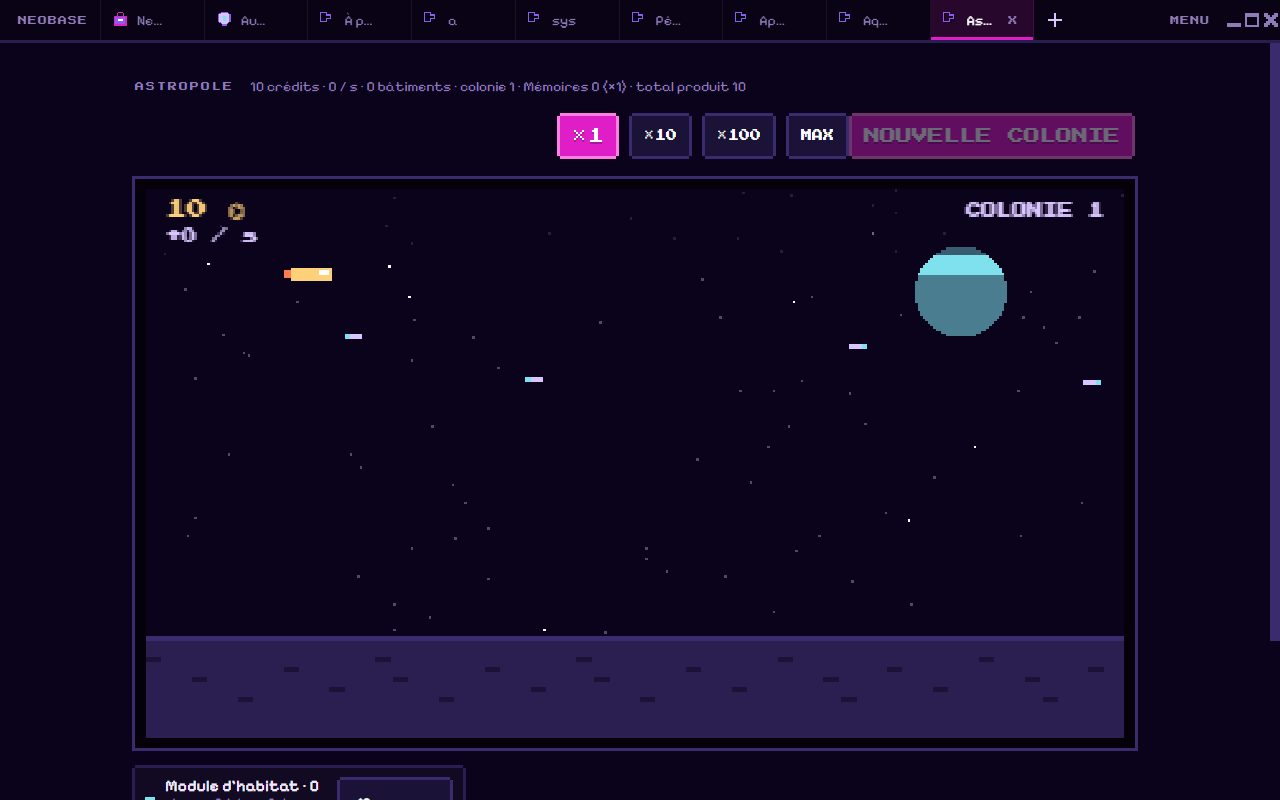
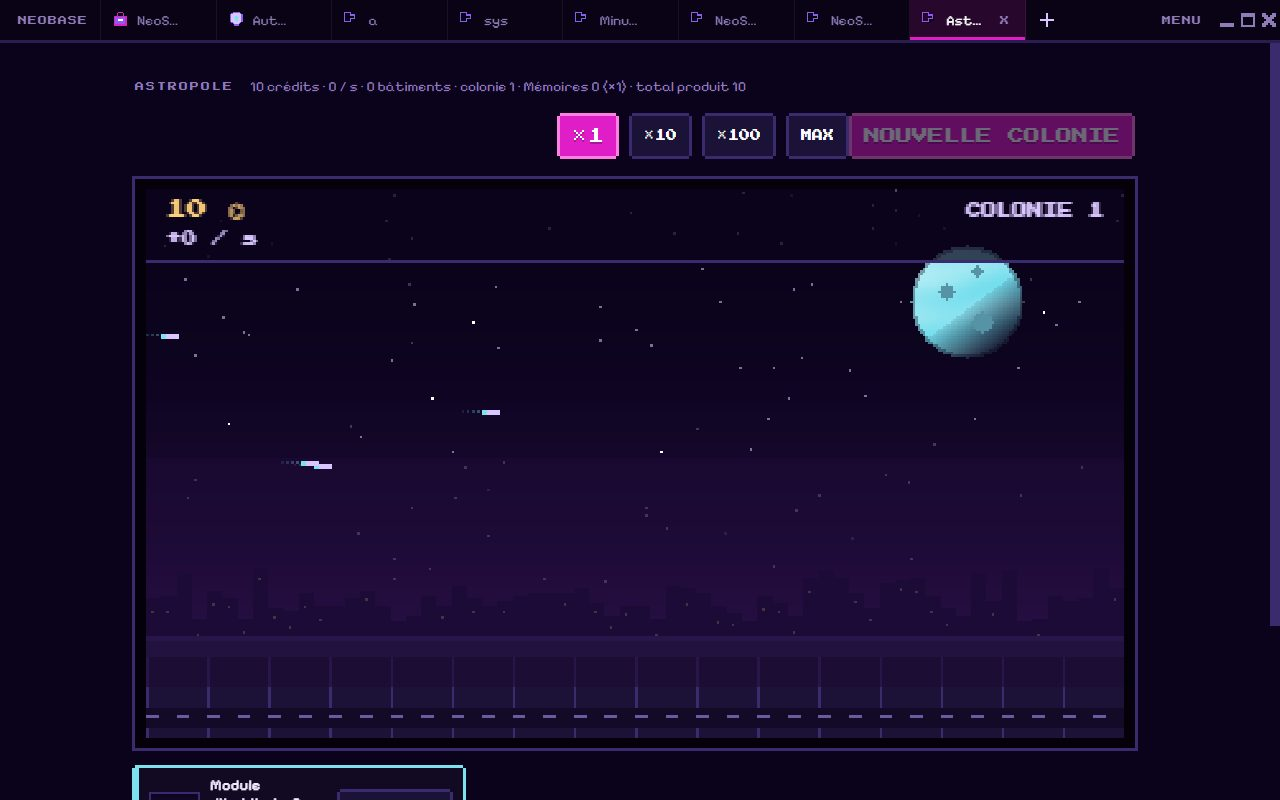
Visuels ameliores

diff --git a/index.js b/index.js
@@ -5,7 +5,10 @@ const HTML = "<div class=\"appWrap\">\n      <div class=\"agHead\"><span class=\
 /*CSS-MOVED*/ const CSS = `.gameBox{display:grid;place-items:center;padding:10px;background:#05010b;box-shadow:0 0 0 3px var(--line2)}
 .ciList{display:grid;grid-template-columns:repeat(auto-fill,minmax(320px,1fr));gap:8px}
 .ciRow{--fill:var(--win);display:flex;align-items:center;gap:10px;padding:8px 10px}
-.ciDot{width:10px;height:10px;flex:none}
+.ciRow{border-left:4px solid var(--c,#7fe0ee)}
+.ciIcon{width:51px;height:45px;flex:none;image-rendering:pixelated;background:linear-gradient(#0b031c,#2a1d52);box-shadow:inset 0 0 0 2px var(--line2)}
+.ciBar{height:4px;background:#2a1d52;margin-top:4px}.ciBar i{display:block;height:100%;background:var(--c,#7fe0ee)}
+.ciTxt b{font-size:15px}
 .ciTxt{flex:1;display:flex;flex-direction:column;min-width:0}
 .ciTxt small{color:var(--muted)}
 .ciBtn{flex:none;min-width:110px;font-size:12px;white-space:nowrap}
@@ -142,44 +145,107 @@ function ciUpdate() {
   for (const p of ci.pops) { p.y -= .4; p.t--; } ci.pops = ci.pops.filter(p => p.t > 0);
 }
 /* ---------- drawing: the city grows with each tier, the sky changes with the colonies ---------- */
+const ciHash = (a, b = 0, c = 0) => { let h = Math.imul(a + 374761393, 668265263) ^ Math.imul(b + 1274126177, 2246822519) ^ Math.imul(c + 3266489917, 3266489917); h = Math.imul(h ^ h >>> 13, 1274126177); return (h ^ h >>> 16) >>> 0; };
+const ciShade = (c, k) => k >= 0 ? mixc(c, '#ffffff', k) : mixc(c, '#000000', -k);
+const ciRgba = (hex, a) => 'rgba(' + [1, 3, 5].map(i => parseInt(hex.substr(i, 2), 16)).join(',') + ',' + a + ')';
+function ciBlk(g, x, y, w, h, col) {  // un volume : contour sombre, face éclairée à gauche, ombre à droite
+  px(g, '#0d0620', x - 1, y - 1, w + 2, h + 2); px(g, col, x, y, w, h); px(g, ciShade(col, .3), x, y, 1, h); px(g, ciShade(col, .2), x, y, w, 1); px(g, ciShade(col, -.35), x + w - 1, y, 1, h);
+}
+function ciWins(g, x, y, w, h, seed, t) {  // des fenêtres, certaines allumées, une qui clignote de temps en temps
+  for (let yy = y + 2; yy + 2 <= y + h - 1; yy += 4) for (let xx = x + 2; xx + 2 <= x + w - 3; xx += 4) { const hv = ciHash(seed, xx, yy); px(g, hv % 7 < 4 ? (hv % 53 === (t >> 6) % 53 ? '#fff6c8' : '#ffd07a') : '#241a48', xx, yy, 2, 2); }
+}
+// 8 familles de bâtiments : largeur et dessin (x = bord gauche, b = sol, h = hauteur, col = couleur du palier, s = graine, t = temps)
+const CI_W = [22, 22, 24, 16, 20, 22, 10, 10];
+const CI_ART = [
+  (g, x, b, h, col, s, t) => {  // module d'habitat : dôme de verre sur une dalle
+    const r = 10; ciBlk(g, x, b - 3, 22, 3, '#4a3c86');
+    for (let dy = 0; dy < r; dy++) { const hw = Math.round(Math.sqrt(r * r - dy * dy)), y = b - 4 - dy; px(g, '#0d0620', x + 11 - hw - 1, y, 1, 1); px(g, '#0d0620', x + 11 + hw, y, 1, 1); px(g, ciShade(col, .5 - dy / r * .5), x + 11 - hw, y, hw * 2, 1); }
+    px(g, '#0d0620', x + 5, b - 4 - r, 12, 1); px(g, '#ffffff', x + 5, b - 12, 2, 1); px(g, '#ffffff', x + 4, b - 11, 1, 2);
+    for (let k = 0; k < 4; k++) px(g, ciHash(s, k) % 3 ? '#ffd07a' : '#241a48', x + 5 + k * 4, b - 7, 2, 3);
+  },
+  (g, x, b, h, col, s, t) => {  // serre hydroponique
+    ciBlk(g, x, b - 11, 22, 11, '#2f6a52'); for (let k = 0; k < 5; k++) { px(g, k % 2 ? '#8ee8a0' : '#5fd08a', x + 2 + k * 4, b - 9, 3, 7); px(g, '#2a8a4a', x + 2 + k * 4, b - 3, 3, 2); }
+    px(g, '#c8ffe0', x + 1, b - 11, 20, 1); px(g, '#ffffff', x + 3 + (t >> 4) % 14, b - 10, 1, 4);
+  },
+  (g, x, b, h, col, s, t) => {  // champ solaire
+    for (let q = 0; q < 3; q++) { const px0 = x + q * 8; px(g, '#5a5470', px0 + 3, b - 5, 2, 5); ciBlk(g, px0, b - 10, 7, 5, '#2f6bc0'); px(g, '#1d4f9a', px0 + 3, b - 10, 1, 5); px(g, '#1d4f9a', px0, b - 8, 7, 1); px(g, '#cfe8ff', px0 + (q * 2 + (t >> 3)) % 6, b - 9, 1, 3); }
+  },
+  (g, x, b, h, col, s, t) => {  // mine d'astéroïdes : grue et benne
+    ciBlk(g, x, b - 6, 16, 6, '#4a4a60'); ciBlk(g, x + 10, b - h, 4, h - 6, '#6a6a84'); px(g, '#0d0620', x, b - h - 1, 15, 4); px(g, '#e0b860', x + 1, b - h, 13, 2);
+    const sw = Math.round(Math.sin(t / 30 + s) * 2); px(g, '#222', x + 3 + sw, b - h + 2, 1, 9); ciBlk(g, x + 1 + sw, b - h + 10, 5, 3, '#a08a70'); px(g, '#a08a70', x - 4, b - 3, 4, 3); px(g, '#6a5a48', x - 6, b - 1, 6, 1);
+  },
+  (g, x, b, h, col, s, t) => {  // raffinerie de glace : deux cuves et une cheminée qui fume
+    ciBlk(g, x, b - h + 4, 8, h - 4, '#c9e8ff'); ciBlk(g, x + 8, b - h + 10, 6, h - 10, '#a8d0f0'); px(g, '#6aa0d0', x + 1, b - h + 9, 6, 1); px(g, '#6aa0d0', x + 1, b - h + 15, 6, 1);
+    ciBlk(g, x + 15, b - h - 6, 4, h + 6, '#8f8fa8'); px(g, '#ff5a5a', x + 15, b - h - 6, 4, 2); px(g, '#ff5a5a', x + 15, b - h, 4, 2);
+    for (let k = 0; k < 4; k++) { const u = ((t >> 1) + k * 9) % 36; px(g, ciRgba('#e6e0ff', .55 - u / 80), x + 16 + Math.round(Math.sin(u / 6 + k) * 2), b - h - 8 - u / 2 | 0, 2, 2); }
+  },
+  (g, x, b, h, col, s, t) => {  // chantier naval : portique et coque en construction
+    px(g, '#0d0620', x - 1, b - h - 1, 24, 4); px(g, '#6a6490', x, b - h, 22, 2); ciBlk(g, x, b - h + 2, 2, h - 2, '#6a6490'); ciBlk(g, x + 20, b - h + 2, 2, h - 2, '#6a6490');
+    ciBlk(g, x + 4, b - 9, 14, 6, col); px(g, '#ffffff', x + 14, b - 8, 3, 2); px(g, ciShade(col, -.4), x + 5, b - 4, 12, 1); px(g, '#ffd07a', x + 2, b - 3, 18, 1);
+    if ((t >> 3) % 3) px(g, '#fff6c8', x + 5 + (t >> 2) % 10, b - 10, 2, 2);
+  },
+  (g, x, b, h, col, s, t) => {  // laboratoire : tour vitrée, parabole, balise
+    ciBlk(g, x, b - h, 10, h, col); ciWins(g, x, b - h, 10, h, s, t); px(g, '#c0c0d0', x + 4, b - h - 8, 1, 8); px(g, '#dddde8', x + 6, b - h - 5, 3, 2); px(g, (t >> 4) % 2 ? '#ff4f6d' : '#5a1020', x + 4, b - h - 9, 1, 1);
+  },
+  (g, x, b, h, col, s, t) => {  // flèche de lumière
+    ciBlk(g, x + 3, b - h, 4, h, col); for (let k = 0; k < 3; k++) px(g, '#ffffff', x + (k % 2), b - h + 8 + k * 12, 10 - (k % 2) * 2, 2);
+    const glow = (t >> 3) % 2; px(g, ciShade(col, .6), x + 4, b - h - 10, 2, 10); px(g, glow ? '#ffffff' : '#ffd07a', x + 4, b - h - 11, 2, 2);
+  },
+];
+function ciPaint(g, i, x, b, h, t, seed) { CI_ART[i % 8](g, x, b, h, CI.cols[i % CI.cols.length], seed, t); }
+function ciPlanet(pc, sky) {  // la planète, dessinée une fois : bandes, ombre, cratères
+  const key = pc + sky; if (ci.planet?.key === key) return ci.planet.cv;
+  const cv = document.createElement('canvas'), R = 22; cv.width = cv.height = R * 2 + 14; const g = cv.getContext('2d');
+  for (let dy = -R; dy <= R; dy++) for (let dx = -R; dx <= R; dx++) {
+    const d = Math.hypot(dx, dy); if (d > R) continue;
+    const lit = (-dx * .6 - dy * .8) / R, band = Math.sin(dy / 2.6 + Math.sin(dx / 9)) * .08;
+    let c = mixc(pc, '#ffffff', Math.max(0, lit) * .35 + band); if (lit < -.1) c = mixc(c, sky, Math.min(.85, -lit * .9)); if (d > R - 1.2) c = mixc(c, sky, .35);
+    px(g, c, dx + R + 7, dy + R + 7);
+  }
+  for (const [cx, cy, cr] of [[-8, -4, 3], [6, 8, 4], [4, -12, 2]]) for (let dy = -cr; dy <= cr; dy++) for (let dx = -cr; dx <= cr; dx++) if (Math.hypot(dx, dy) <= cr && Math.hypot(cx + dx, cy + dy) < R - 2) px(g, mixc(pc, sky, .35), cx + dx + R + 7, cy + dy + R + 7);
+  ci.planet = {key, cv}; return cv;
+}
 function ciDraw() {
   const g = ci.g, t = ci.tick, s = ciSave(), W = CI.W, H = CI.H, ground = 176;
-  const sky = ['#0b031c', '#06121f', '#140320', '#031a14'][s.colonies % 4];
-  g.fillStyle = sky; g.fillRect(0, 0, W, H);
-  const r = seeded(5 + s.colonies); for (let i = 0; i < 90; i++) { const x = Math.floor(r() * W), y = Math.floor(r() * ground); px(g, (i + (t >> 5)) % 11 ? 'rgba(217,198,255,.35)' : '#ffffff', x, y); }
-  // a planet in the sky, a ring once there are many tiers
-  const pc = CI.cols[s.colonies % CI.cols.length]; for (let dy = -18; dy <= 18; dy++) { const w = Math.round(Math.sqrt(324 - dy * dy)); px(g, dy < -6 ? pc : mixc(pc, sky, .45), 320 - w, 40 + dy, w * 2, 1); }
-  if (s.b.length > 6) { g.strokeStyle = '#ffd07a88'; g.beginPath(); g.ellipse(320, 40, 30, 6, -.3, 0, Math.PI * 2); g.stroke(); }
-  // ground
-  px(g, '#2a1f50', 0, ground, W, H - ground); px(g, '#3a2a6e', 0, ground, W, 2);
-  for (let x = 0; x < W; x += 16) px(g, '#1c1238', x + (x * 7) % 11, ground + 8 + (x * 3) % 20, 6, 2);
-  // one row of structures per tier: more of them as you own more (1, 2, 4, 8 … shown by the log of the count)
-  s.b.forEach((n, i) => {
-    if (!n) return;
-    const k = Math.min(10, 1 + Math.floor(Math.log2(n))), col = CI.cols[i % CI.cols.length], kind = i % 8, rr = seeded(i * 31 + 7);
-    for (let j = 0; j < k; j++) {
-      const x = Math.floor(rr() * (W - 30)) + 6, h = 10 + Math.floor(rr() * 18) + Math.min(60, i * 4), y = ground - h;
-      if (kind === 0) { px(g, col, x, ground - 8, 14, 8); px(g, '#ffffff', x + 4, ground - 12, 6, 4); }                                  // dome module
-      else if (kind === 1) { px(g, '#5fd08a55', x, ground - 12, 18, 12); px(g, col, x + 2, ground - 6, 14, 2); px(g, '#ffffff33', x, ground - 12, 18, 1); }  // greenhouse
-      else if (kind === 2) { for (let q = 0; q < 3; q++) px(g, '#4f9fe0', x + q * 6, ground - 6, 5, 3); px(g, col, x, ground - 3, 17, 1); }    // solar field
-      else if (kind === 3) { px(g, '#8f8fa8', x + 4, y, 4, h); px(g, col, x, y, 12, 3); px(g, '#4a4a60', x + 1, ground - 6, 10, 6); }          // mine tower
-      else if (kind === 4) { px(g, col, x, y + 6, 10, h - 6); px(g, '#ffffff', x + 2, y + 6, 6, 2); px(g, '#8f8fa8', x + 4, y, 2, 6); }        // refinery
-      else if (kind === 5) { px(g, '#5a5470', x, y, 2, h); px(g, '#5a5470', x + 16, y, 2, h); px(g, '#5a5470', x, y, 18, 2); px(g, col, x + 5, ground - 10, 8, 10); }  // shipyard crane
-      else if (kind === 6) { px(g, col, x + 3, y, 8, h); px(g, '#ffffff', x + 1, y + 4, 12, 3); for (let q = 6; q < h - 2; q += 5) px(g, '#ffd07a', x + 5, y + q, 2, 2); }  // tower
-      else { px(g, col, x + 6, y - 20, 2, h + 20); px(g, '#ffffff', x + 2, y - 22, 10, 2); }                                            // spire
-      if ((t + j * 40 + i * 13) % 160 < 80) px(g, '#ffd07a', x + 6, y - (kind === 7 ? 23 : 1), 1, 1);  // blinking light
-    }
+  const sky = ['#0b031c', '#06121f', '#140320', '#031a14'][s.colonies % 4], glow = ['#4a1f7a', '#0f4a6a', '#6a1f5a', '#0f6a4a'][s.colonies % 4];
+  // le ciel : bandes qui s'éclairent vers l'horizon
+  for (let y = 0; y < ground; y += 4) px(g, mixc(sky, glow, Math.pow(y / ground, 3) * .75), 0, y, W, 4);
+  const r = seeded(5 + s.colonies); for (let i = 0; i < 100; i++) { const x = Math.floor(r() * W), y = Math.floor(r() * (ground - 20)), tw = (i * 7 + (t >> 4)) % 13; px(g, tw === 0 ? '#ffffff' : tw < 3 ? 'rgba(217,198,255,.25)' : 'rgba(217,198,255,.55)', x, y); }
+  if (ci.meteor) { const m = ci.meteor; for (let k = 0; k < 10; k++) px(g, ciRgba('#ffffff', .8 - k * .08), m.x - k * 2, m.y - k, 1, 1); m.x += 3; m.y += 1.5; if (m.x > W + 20) ci.meteor = null; } else if (Math.random() < 1 / 900) ci.meteor = { x: Math.random() * 200, y: Math.random() * 50 };
+  // une planète (avec son anneau quand il y a beaucoup de paliers)
+  const pc = CI.cols[s.colonies % CI.cols.length];
+  if (s.b.length > 6) { g.strokeStyle = 'rgba(255,208,122,.35)'; g.lineWidth = 2; g.beginPath(); g.ellipse(322, 44, 36, 8, -.35, Math.PI, Math.PI * 2); g.stroke(); }
+  g.drawImage(ciPlanet(pc, sky), 322 - 29, 44 - 29);
+  if (s.b.length > 6) { g.beginPath(); g.ellipse(322, 44, 36, 8, -.35, 0, Math.PI); g.stroke(); }
+  // la skyline lointaine
+  const rs = seeded(77 + s.colonies); for (let x = 0; x < W; x += 6) { const h = 6 + Math.floor(rs() * 22); px(g, mixc(sky, glow, .35), x, ground - h, 6, h); if (rs() < .5) px(g, 'rgba(255,208,122,.5)', x + 2, ground - h + 3 + Math.floor(rs() * 4), 1, 1); }
+  // le sol : plateforme, route avec lampadaires, véhicules
+  px(g, '#1c1238', 0, ground, W, H - ground); px(g, '#3a2a6e', 0, ground, W, 2); px(g, '#2a1f50', 0, ground + 2, W, 6);
+  for (let x = 0; x < W; x += 24) { px(g, '#3a2a6e', x, ground + 8, 1, H - ground - 8); }
+  px(g, '#120a26', 0, 204, W, 8); for (let x = 0; x < W; x += 12) px(g, '#6a5aa0', x + (t >> 2) % 12, 207, 5, 1);
+  // les bâtiments, sur trois plans (le plus lointain est noyé dans la brume du ciel)
+  const items = []; const maxK = Math.max(0, ...s.b.map(n => n ? Math.min(10, 1 + Math.floor(Math.log2(n))) : 0));
+  for (let j = 0; j < maxK; j++) s.b.forEach((n, i) => { if (n && Math.min(10, 1 + Math.floor(Math.log2(n))) > j) items.push({ i, j }); });
+  const cur = [4, 14, 2], bases = [ground, ground + 6, ground + 13], layers = [[], [], []];
+  items.slice(0, 70).forEach((it, n) => {
+    const L = ciHash(it.i, it.j, 3) % 3, w = CI_W[it.i % 8], h = 14 + ciHash(it.i, it.j) % 12 + Math.min(34, it.i * 3);
+    if (cur[L] + w > W - 4) return; layers[L].push({ i: it.i, j: it.j, x: cur[L], h, b: bases[L] + (it.i % 8 === 3 || it.i % 8 === 4 ? 0 : 0) }); cur[L] += w + 3 + ciHash(it.i, it.j, 9) % 6;
   });
+  [2, 1, 0].forEach(L => {
+    for (const b of layers[L]) ciPaint(g, b.i, b.x, b.b, b.h, t + b.j * 40, ciHash(b.i, b.j, 5));
+    if (L) { g.fillStyle = ciRgba(mixc(sky, glow, .25), L === 2 ? .5 : .22); g.fillRect(0, ground - 70, W, 90); }
+  });
+  for (let k = 0, n = Math.min(5, s.b.length); k < n; k++) { const x = ((t * (k % 2 ? -1 : 1) * (.5 + k * .15) + k * 90) % (W + 20) + W + 20) % (W + 20) - 10; px(g, '#0d0620', x - 1, 205, 8, 4); px(g, ['#ff5ad9', '#7fe0ee', '#ffd07a', '#8ee8a0', '#ff7a4f'][k], x, 206, 6, 2); px(g, '#fff6c8', x + (k % 2 ? 0 : 5), 206, 1, 1); }
   for (const sh of ci.ships) {
-    if (sh.cargo) { px(g, '#ffd07a', sh.x, sh.y, 16, 5); px(g, '#ffffff', sh.x + 11, sh.y + 1, 4, 2); px(g, '#ff7a4f', sh.x - 3 - (t >> 2) % 2, sh.y + 1, 3, 3); }
-    else { px(g, '#d9c6ff', sh.x, sh.y, 5, 2); px(g, '#7fe0ee', sh.x + (sh.v > 0 ? -2 : 5), sh.y, 2, 2); }
+    if (sh.cargo) { px(g, '#0d0620', sh.x - 1, sh.y - 1, 18, 7); px(g, '#ffd07a', sh.x, sh.y, 16, 5); px(g, '#ffffff', sh.x + 11, sh.y + 1, 4, 2); px(g, '#ff7a4f', sh.x - 3 - (t >> 2) % 2, sh.y + 1, 3, 3); px(g, '#fff6c8', sh.x + 2, sh.y + 1, 2, 1); }
+    else { px(g, '#d9c6ff', sh.x, sh.y, 5, 2); px(g, '#7fe0ee', sh.x + (sh.v > 0 ? -2 : 5), sh.y, 2, 2); for (let k = 1; k < 5; k++) px(g, ciRgba('#7fe0ee', .4 - k * .07), sh.x + (sh.v > 0 ? -2 - k * 2 : 6 + k * 2), sh.y, 1, 1); }
   }
-  for (const p of ci.pops) { g.fillStyle = '#ffd07a'; g.font = '7px "Press Start 2P", monospace'; g.fillText(p.text, p.x, p.y); }
-  if (ci.flash) { g.fillStyle = `rgba(255,208,244,${ci.flash / 50})`; g.fillRect(0, 0, W, H); }
-  // the counter
-  g.fillStyle = 'rgba(11,3,28,.6)'; g.fillRect(0, 0, W, 26);
+  for (const p of ci.pops) { g.font = '7px "Press Start 2P", monospace'; g.fillStyle = '#05010b'; g.fillText(p.text, p.x + 1, p.y + 1); g.fillStyle = '#ffd07a'; g.fillText(p.text, p.x, p.y); }
+  if (ci.flash) { g.fillStyle = 'rgba(255,208,244,' + ci.flash / 50 + ')'; g.fillRect(0, 0, W, H); }
+  // le compteur
+  px(g, 'rgba(11,3,28,.72)', 0, 0, W, 28); px(g, '#3a2a6e', 0, 28, W, 1);
   g.font = '8px "Press Start 2P", monospace'; g.fillStyle = '#ffd07a'; g.fillText(ciFmt(ciL(s.cr)) + ' ⌬', 8, 12);
-  g.font = '6px "Press Start 2P", monospace'; g.fillStyle = '#d9c6ff'; g.fillText('+' + ciFmt(ciProd()) + ' / s', 8, 22);
+  g.font = '6px "Press Start 2P", monospace'; g.fillStyle = '#d9c6ff'; g.fillText('+' + ciFmt(ciProd()) + ' / s', 8, 23);
   g.textAlign = 'right'; g.fillText('COLONIE ' + (s.colonies + 1) + (ciL(s.mem) > -Infinity ? ' · ' + ciFmt(ciL(s.mem)) + ' MÉMOIRES' : ''), W - 8, 12); g.textAlign = 'left';
 }
 /* ---------- page: the list of buildings ---------- */
@@ -190,13 +256,14 @@ function ciUi(soft) {
   [...$('ciBuy').children].forEach(b => b.classList.toggle('main', b.dataset.k === String(k)));
   if (!soft || list.children.length !== n) list.replaceChildren(...Array.from({length: n}, (_, i) => {
     const row = el('div', 'ciRow px'), b = el('button', 'btn px ciBtn'); b.dataset.i = i;
-    row.append(Object.assign(el('span', 'ciDot'), {style: 'background:' + CI.cols[i % CI.cols.length]}), el('div', 'ciTxt'), b);
+    const ic = el('canvas', 'ciIcon'); ic.width = 34; ic.height = 30; ciPaint(ic.getContext('2d'), i, 17 - (CI_W[i % 8] >> 1), 28, 16, 0, i + 1);
+    row.style.setProperty('--c', CI.cols[i % CI.cols.length]); row.append(ic, el('div', 'ciTxt'), b);
     b.onclick = () => { ciBuy(i, s.buy === 'max' ? 'max' : s.buy); b.blur(); };
     return row;
   }));
   [...list.children].forEach((row, i) => {
     const have = s.b[i] || 0, kk = k === 'max' ? Math.max(1, ciMaxBuy(i)) : k, c = ciCost(i, kk), next = 25 - have % 25;
-    row.children[1].replaceChildren(el('b', '', ciName(i) + ' · ' + have), el('small', '', (have ? ciFmt(ciProdOf(i)) + ' / s' : 'chacun ' + ciFmt(ciProd0(i) + ciMult()) + ' / s') + ' · ×2 dans ' + next + (kk > 1 ? ' · achat ×' + kk.toLocaleString('fr-FR') : '')));
+    row.children[1].replaceChildren(el('b', '', ciName(i) + ' · ' + have), el('small', '', (have ? ciFmt(ciProdOf(i)) + ' / s' : 'chacun ' + ciFmt(ciProd0(i) + ciMult()) + ' / s') + ' · ×2 dans ' + next + (kk > 1 ? ' · achat ×' + kk.toLocaleString('fr-FR') : '')), (() => { const bar = el('div', 'ciBar'), f = el('i'); f.style.width = (have % 25) / 25 * 100 + '%'; bar.append(f); return bar; })());
     const btn = row.children[2]; btn.textContent = ciFmt(c); btn.disabled = c > ciL(s.cr) + 1e-9;
   });
 }
